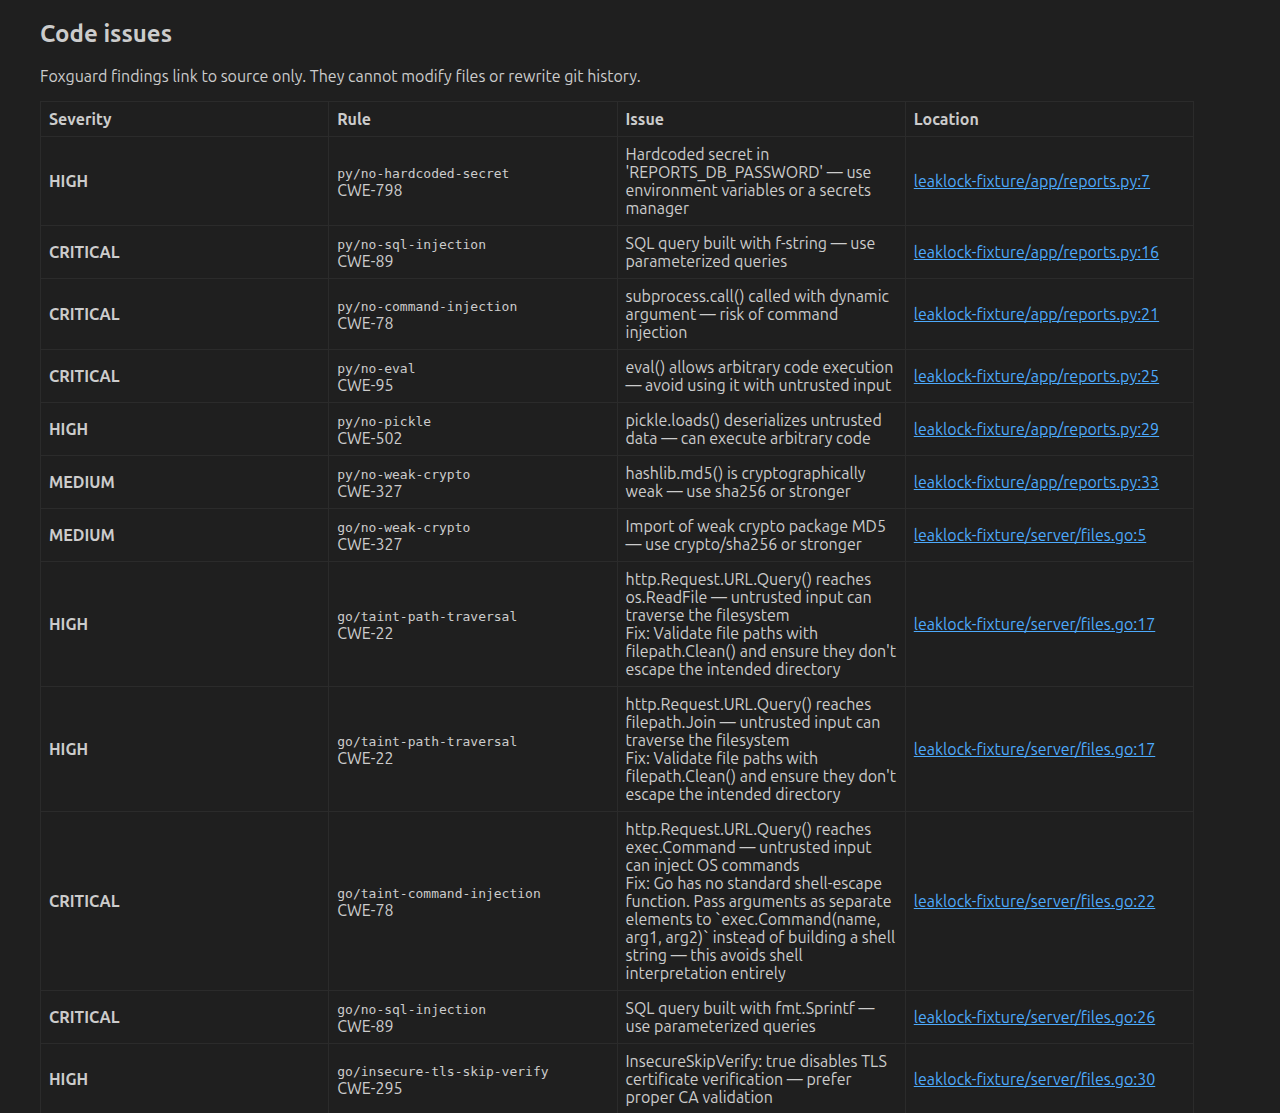
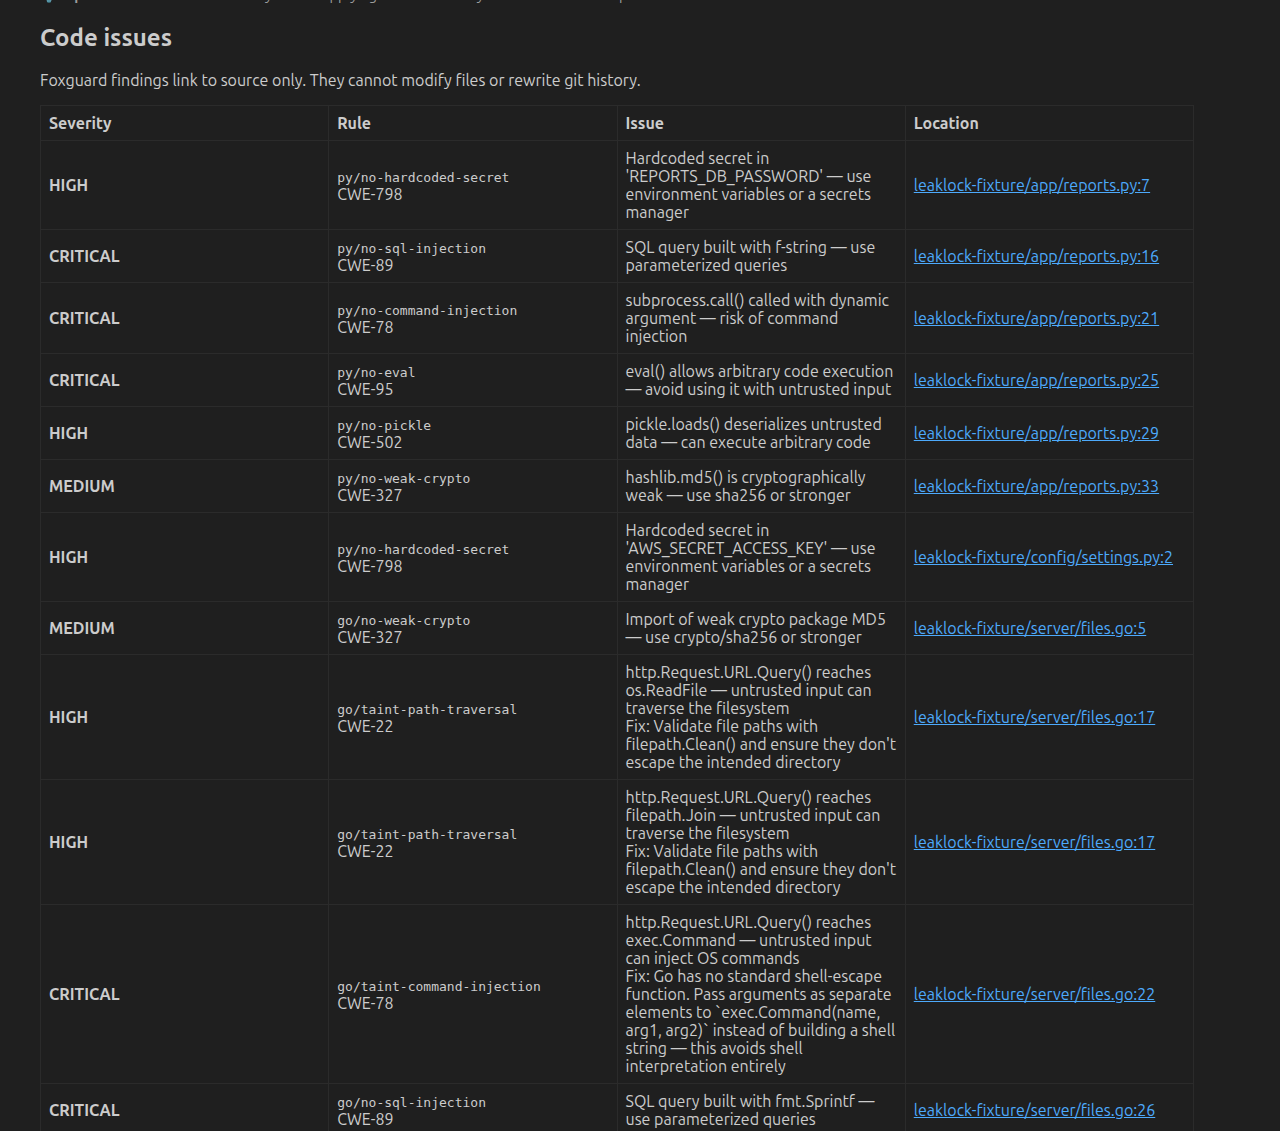
docs: Foxguard screenshots for coverage, Control Panel and Code issues
Retaken from a scan of the reseeded public fixture with all four
engines. scan-coverage shows Foxguard and real versions; control-panel
shows the native engine rows; code-issues has 17 issues. The render
tool fills the Control Panel engine rows from the scan record and marks
git-filter-repo present, which it is on the capture machine.

diff --git a/docs/website/index.html b/docs/website/index.html
@@ -332,8 +332,8 @@ footer .credit{margin-left:auto}
     <div class="shots">
       <figure class="shot lead">
         <a class="frame" href="img/code-issues.png">
-          <img src="img/code-issues.png" width="1280" height="1113" loading="lazy" decoding="async"
-               alt="The Code issues table from a real Foxguard scan of the public test fixture. Each row lists a severity, a rule identifier with its CWE, a description with a suggested fix, and a link to the file and line: a hardcoded database password, SQL and command injection, eval, pickle deserialization and MD5 in Python, and path traversal, command and SQL injection, disabled TLS verification and MD5 in Go.">
+          <img src="img/code-issues.png" width="1280" height="1131" loading="lazy" decoding="async"
+               alt="The Code issues table from a real Foxguard scan of the public test fixture. Each row lists a severity, a rule identifier with its CWE, a description with a suggested fix, and a link to the file and line: hardcoded database and AWS secrets, SQL and command injection, eval, pickle deserialization and MD5 in Python, and path traversal, command and SQL injection, disabled TLS verification and MD5 in Go.">
         </a>
         <figcaption>
           <b>Code issues, kept apart from secrets</b>
@@ -348,8 +348,8 @@ footer .credit{margin-left:auto}
     <div class="shots shots-3">
       <figure class="shot">
         <a class="frame" href="img/scan-coverage.png">
-          <img src="img/scan-coverage.png" width="1172" height="406" loading="lazy" decoding="async"
-               alt="The Scan coverage panel expanded, listing each engine with its version and finding count, the execution mode and the host it was chosen for, the number of local branches, remote branches, tags and stash entries scanned, whether refs were refreshed, a collapsed list of branches that exist only on the remote, and the ruleset, file-size limit, timeout and dependency handling in effect.">
+          <img src="img/scan-coverage.png" width="1166" height="420" loading="lazy" decoding="async"
+               alt="The Scan coverage panel expanded, listing each of the four engines (Nosey Parker, Gitleaks, TruffleHog and Foxguard) with its version and finding count, the execution mode and the host it was chosen for, the number of local branches, remote branches, tags and stash entries scanned, whether refs were refreshed, a collapsed list of branches that exist only on the remote, and the ruleset, file-size limit, timeouts and dependency handling in effect.">
         </a>
         <figcaption>
           <b>What was actually scanned</b>
@@ -388,14 +388,14 @@ footer .credit{margin-left:auto}
     <div class="shots shots-3">
       <figure class="shot">
         <a class="frame" href="img/control-panel.png">
-          <img src="img/control-panel.png" width="435" height="1010" loading="lazy" decoding="async"
-               alt="The Control Panel sidebar, with a Dependencies Setup section showing Docker Engine, Nosey Parker image, Java runtime and BFG all installed, a Target Directory section with a detected git repository, and a Start Scan button.">
+          <img src="img/control-panel.png" width="435" height="1350" loading="lazy" decoding="async"
+               alt="The Control Panel sidebar, with a Dependencies Setup section listing the Gitleaks, TruffleHog and Foxguard native binaries with their versions, then Docker Engine and the Nosey Parker image, git-filter-repo, Java runtime and BFG, all installed, a Target Directory section with a detected git repository, and a Start Scan button.">
         </a>
         <figcaption>
           <b>Control Panel</b>
           Dependency status, the auto-detected target repository, and the scan trigger. One scan
-          engine is the whole requirement — one click installs Gitleaks and TruffleHog as native
-          binaries, no Docker and no JVM. Docker, the Nosey Parker image and BFG are optional, and
+          engine is the whole requirement — one click installs Gitleaks, TruffleHog and Foxguard as
+          native binaries, no Docker and no JVM. Docker, the Nosey Parker image and BFG are optional, and
           their absence is noted beside "Dependencies ready" rather than blocking a scan.
         </figcaption>
       </figure>

diff --git a/tools/render-screenshots.js b/tools/render-screenshots.js
@@ -289,8 +289,18 @@ function renderCurrentView() {
             docker: { installed: true, version: 'Docker version 28.2.2, build 28.2.2-0ubuntu1~22.04.1' },
             noseyparker: { installed: true },
             java: { installed: true },
-            bfg: { installed: true }
+            bfg: { installed: true },
+            filterRepo: { installed: true }
         };
+        // The native engines' rows, from the engines that actually ran in the scan.
+        const { ENGINES } = require(path.join(REPO, 'scan-engines.js'));
+        sidebar._engineStatus = (scan.coverage.engines || [])
+            .filter(engine => ENGINES[engine.id])
+            .map(engine => ({
+                id: engine.id, displayName: engine.displayName, installHint: ENGINES[engine.id].installHint,
+                enabled: true, installed: Boolean(engine.ok), runtime: engine.runtime || 'binary',
+                preference: 'auto', image: null, version: engine.version
+            }));
         if (VIEW === 'keywords') {
             // The commit-message / file-history keyword search, expanded. Off by default
             // in the product, so it has to be opened explicitly to be documented at all.
